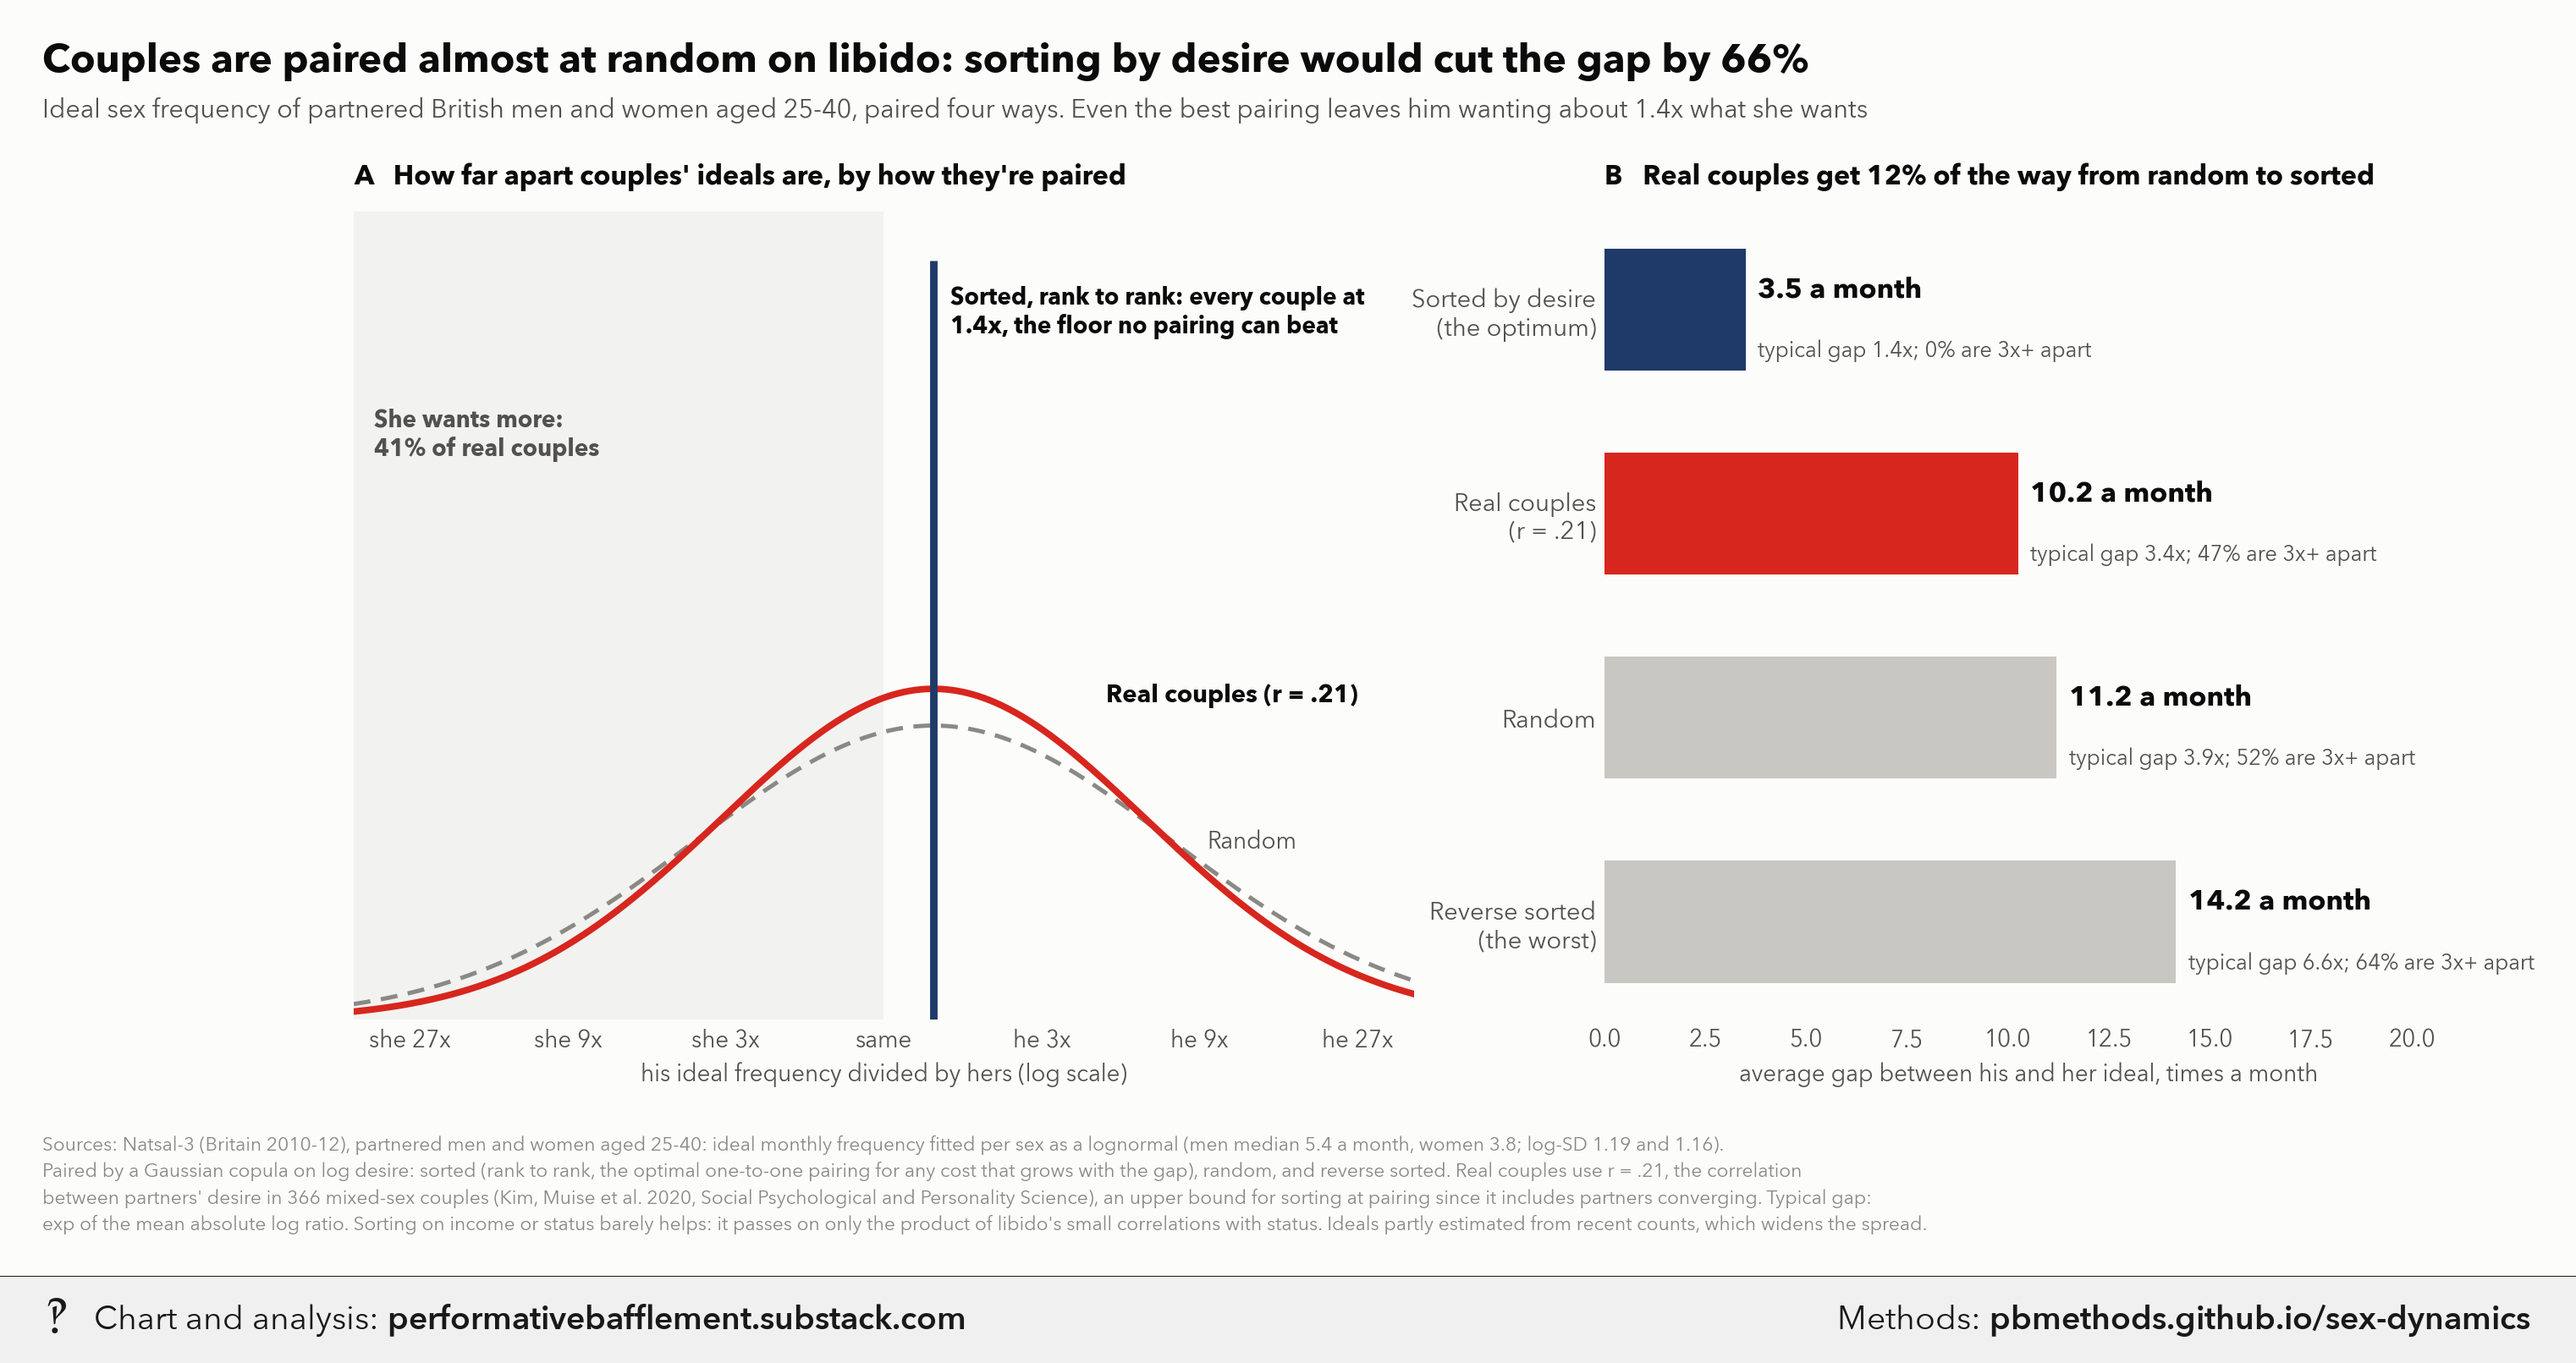
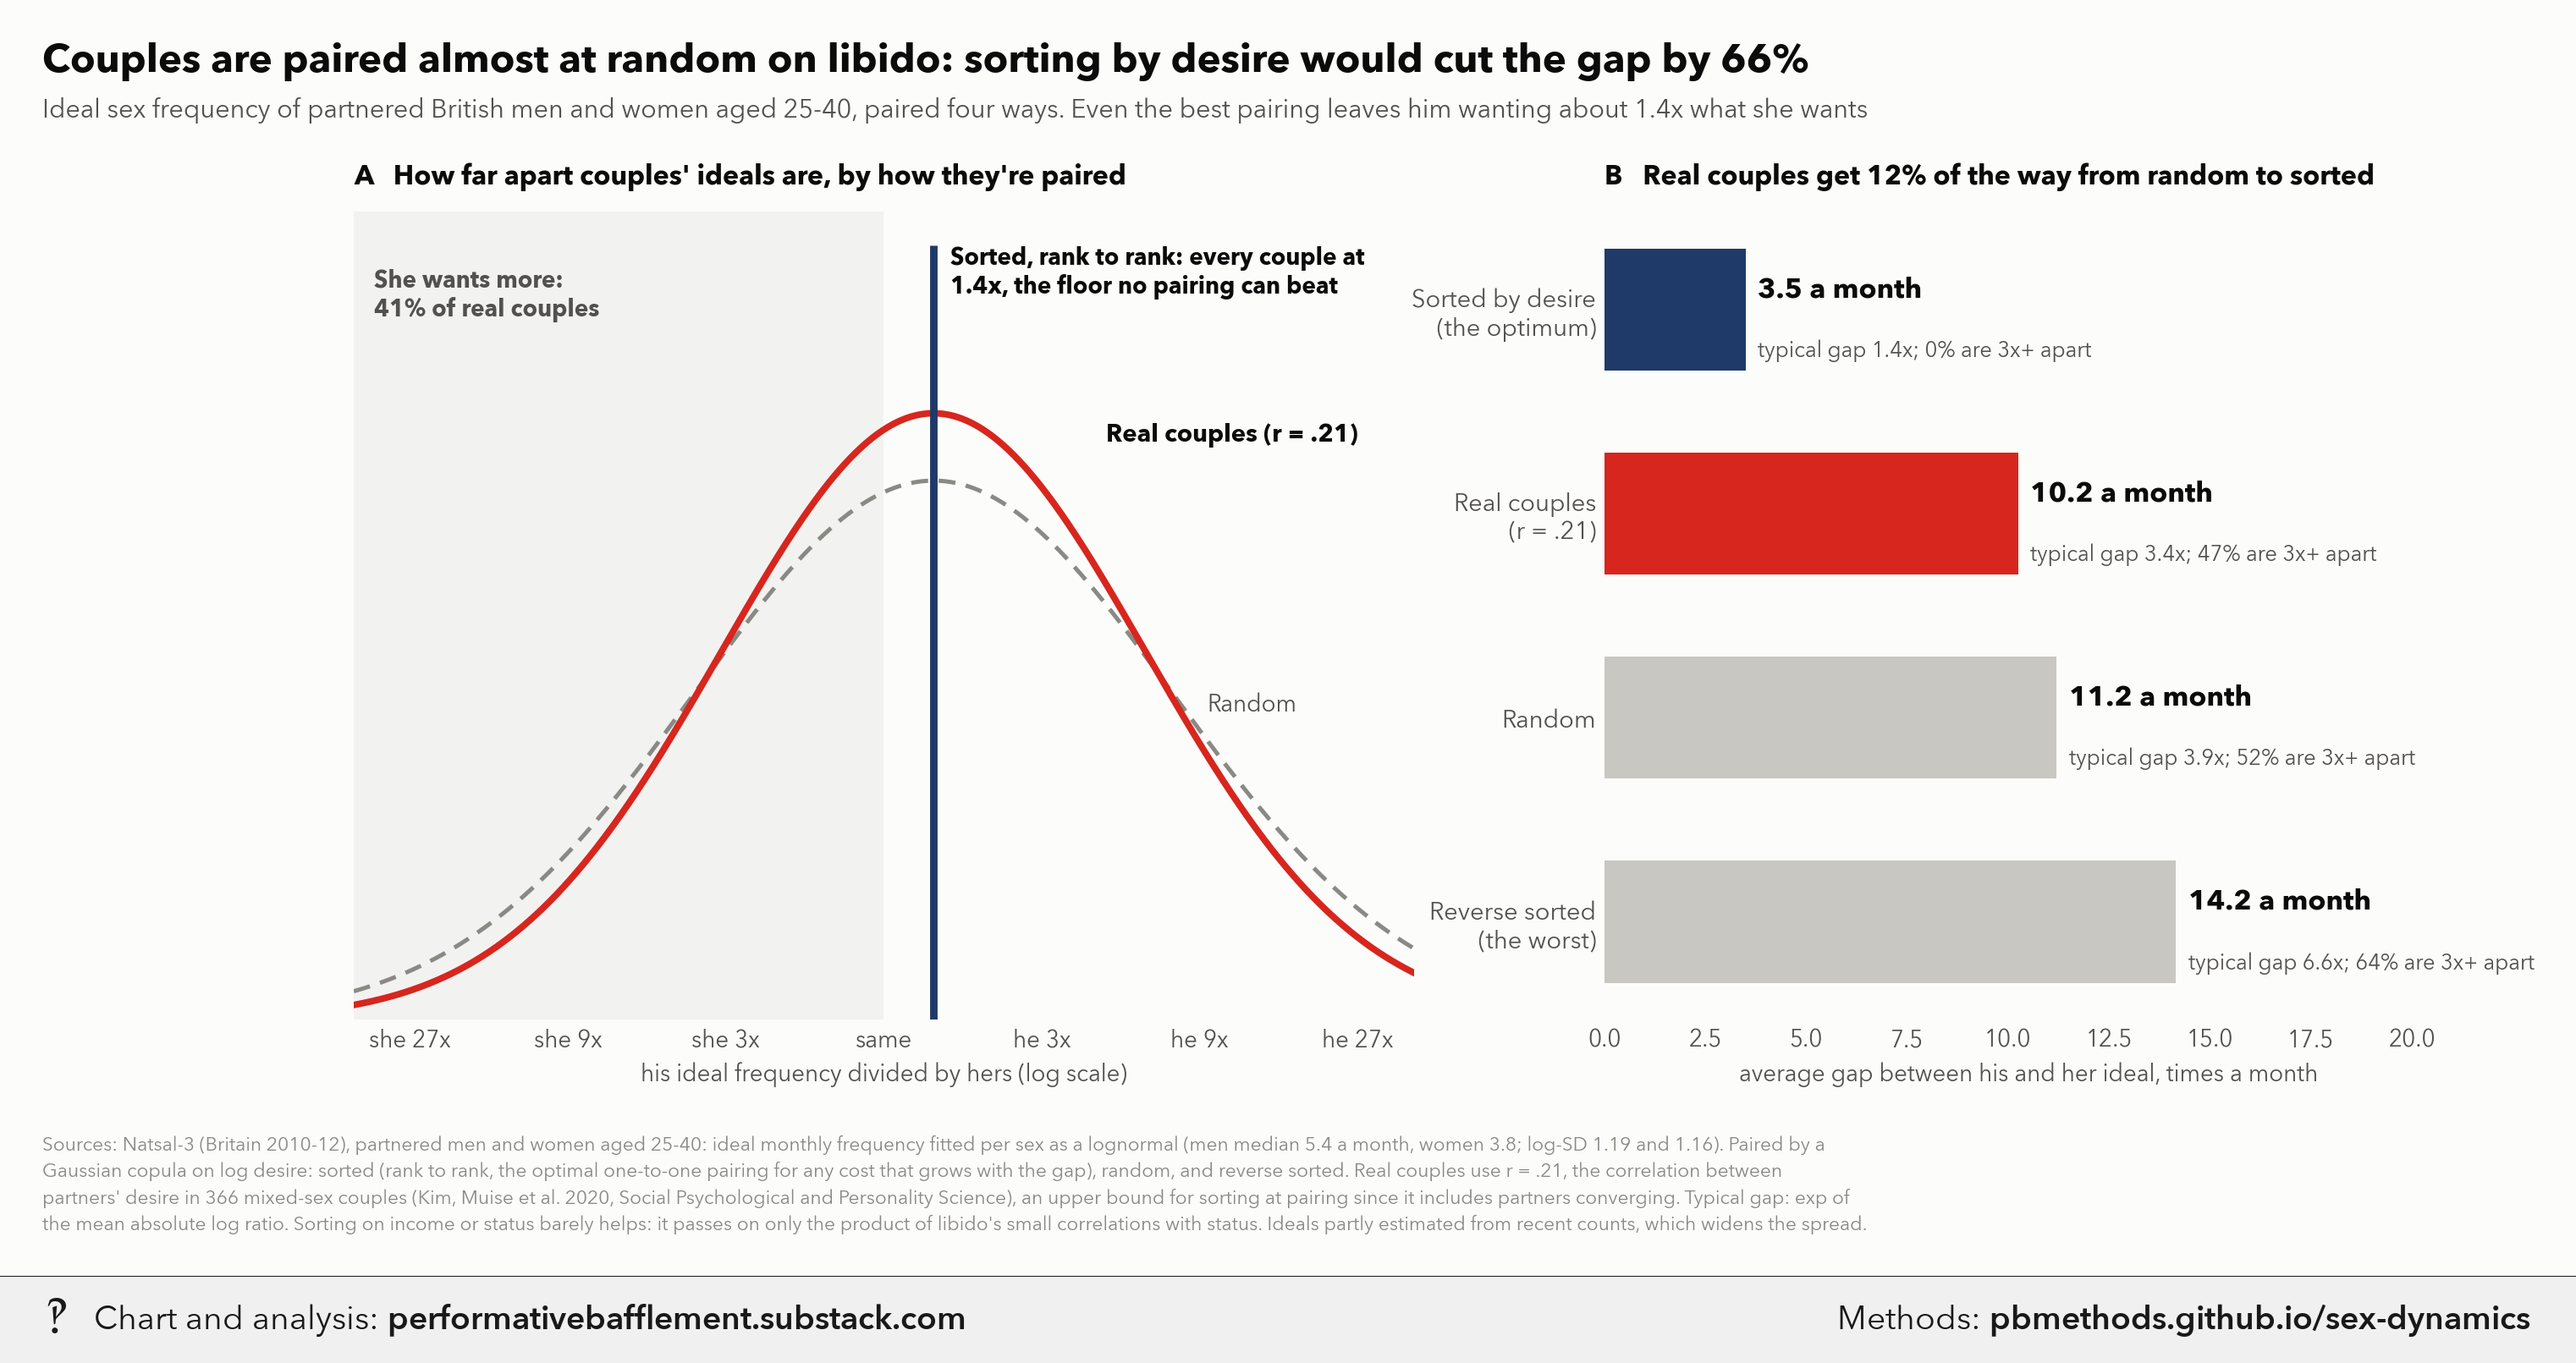
Update sex-dynamics

diff --git a/sex-dynamics/index.html b/sex-dynamics/index.html
@@ -6017,16 +6017,16 @@ ax.axvspan(np.log(1 / 40), 0, color=P[&quot;MUTE&quot;], alpha=0.18, lw=0)
 for key, c, ls, lw_ in [(RA, GRAY, (0, (4, 2.5)), 1.8), (RE, RED, &quot;-&quot;, 2.8)]:
     sd = pr.loc[key].sd_log_ratio
     ax.plot(lx, norm_pdf((lx - dm) / sd) / sd, color=c, ls=ls, lw=lw_)
-ax.plot([dm, dm], [0, 0.62], color=NAVY, lw=3.2, solid_capstyle=&quot;butt&quot;)
-ax.text(dm + 0.12, 0.6, f&quot;Sorted, rank to rank: every couple at\n{pr.loc[SO].median_ratio:.1f}x, the floor no pairing can beat&quot;,
+ax.plot([dm, dm], [0, 0.345], color=NAVY, lw=3.2, solid_capstyle=&quot;butt&quot;)
+ax.text(dm + 0.12, 0.345, f&quot;Sorted, rank to rank: every couple at\n{pr.loc[SO].median_ratio:.1f}x, the floor no pairing can beat&quot;,
         fontsize=10, fontweight=&quot;bold&quot;, color=INK, va=&quot;top&quot;)
 ax.text(1.55, 0.255, f&quot;Real couples (r = .21)&quot;, fontsize=10.5, fontweight=&quot;bold&quot;, color=INK, va=&quot;bottom&quot;)
 ax.text(2.25, 0.135, &quot;Random&quot;, fontsize=10, color=INK2, va=&quot;bottom&quot;)
-ax.text(-3.55, 0.5, f&quot;She wants more:\n{pr.loc[RE].share_she_more:.0%} of real couples&quot;, fontsize=10, color=INK2,
+ax.text(-3.55, 0.335, f&quot;She wants more:\n{pr.loc[RE].share_she_more:.0%} of real couples&quot;, fontsize=10, color=INK2,
         fontweight=&quot;bold&quot;, va=&quot;top&quot;)
 TX = [1 / 27, 1 / 9, 1 / 3, 1, 3, 9, 27]
 ax.set_xticks(np.log(TX), [&quot;she 27x&quot;, &quot;she 9x&quot;, &quot;she 3x&quot;, &quot;same&quot;, &quot;he 3x&quot;, &quot;he 9x&quot;, &quot;he 27x&quot;])
-ax.set_xlim(np.log(1 / 40), np.log(40)); ax.set_ylim(0, 0.66); ax.set_yticks([])
+ax.set_xlim(np.log(1 / 40), np.log(40)); ax.set_ylim(0, 0.36); ax.set_yticks([])
 ax.set_xlabel(&quot;his ideal frequency divided by hers (log scale)&quot;)
 ax.grid(axis=&quot;y&quot;, visible=False)
 panel_title(ax, &quot;A&quot;, &quot;How far apart couples' ideals are, by how they're paired&quot;)
@@ -6053,12 +6053,12 @@ header(fig, f&quot;Couples are paired almost at random on libido: sorting by des
        f&quot;leaves him wanting about {pr.loc[SO].median_ratio:.1f}x what she wants&quot;, y=0.93)
 footnote(fig, &quot;Sources: Natsal-3 (Britain 2010-12), partnered men and women aged 25-40: ideal monthly frequency fitted &quot;
               f&quot;per sex as a lognormal (men median {np.exp(pr.loc[RE].mu_m):.1f} a month, women &quot;
-              f&quot;{np.exp(pr.loc[RE].mu_w):.1f}; log-SD {pr.loc[RE].sg_m:.2f} and {pr.loc[RE].sg_w:.2f}).\n&quot;
-              &quot;Paired by a Gaussian copula on log desire: sorted (rank to rank, the optimal one-to-one pairing for any &quot;
-              &quot;cost that grows with the gap), random, and reverse sorted. Real couples use r = .21, the correlation\n&quot;
-              &quot;between partners' desire in 366 mixed-sex couples (Kim, Muise et al. 2020, Social Psychological and &quot;
+              f&quot;{np.exp(pr.loc[RE].mu_w):.1f}; log-SD {pr.loc[RE].sg_m:.2f} and {pr.loc[RE].sg_w:.2f}). Paired by a\n&quot;
+              &quot;Gaussian copula on log desire: sorted (rank to rank, the optimal one-to-one pairing for any &quot;
+              &quot;cost that grows with the gap), random, and reverse sorted. Real couples use r = .21, the correlation between\n&quot;
+              &quot;partners' desire in 366 mixed-sex couples (Kim, Muise et al. 2020, Social Psychological and &quot;
               &quot;Personality Science), an upper bound for sorting at pairing since it includes partners converging. &quot;
-              &quot;Typical gap:\nexp of the mean absolute log ratio. Sorting on income or status barely helps: it passes &quot;
+              &quot;Typical gap: exp of\nthe mean absolute log ratio. Sorting on income or status barely helps: it passes &quot;
               &quot;on only the product of libido's small correlations with status. Ideals partly estimated from recent &quot;
               &quot;counts, which widens the spread.&quot;, y=0.0)
 save(fig, &quot;desire_pairing&quot;)

diff --git a/sex-dynamics/methods.md b/sex-dynamics/methods.md
@@ -2298,16 +2298,16 @@ ax.axvspan(np.log(1 / 40), 0, color=P["MUTE"], alpha=0.18, lw=0)
 for key, c, ls, lw_ in [(RA, GRAY, (0, (4, 2.5)), 1.8), (RE, RED, "-", 2.8)]:
     sd = pr.loc[key].sd_log_ratio
     ax.plot(lx, norm_pdf((lx - dm) / sd) / sd, color=c, ls=ls, lw=lw_)
-ax.plot([dm, dm], [0, 0.62], color=NAVY, lw=3.2, solid_capstyle="butt")
-ax.text(dm + 0.12, 0.6, f"Sorted, rank to rank: every couple at\n{pr.loc[SO].median_ratio:.1f}x, the floor no pairing can beat",
+ax.plot([dm, dm], [0, 0.345], color=NAVY, lw=3.2, solid_capstyle="butt")
+ax.text(dm + 0.12, 0.345, f"Sorted, rank to rank: every couple at\n{pr.loc[SO].median_ratio:.1f}x, the floor no pairing can beat",
         fontsize=10, fontweight="bold", color=INK, va="top")
 ax.text(1.55, 0.255, f"Real couples (r = .21)", fontsize=10.5, fontweight="bold", color=INK, va="bottom")
 ax.text(2.25, 0.135, "Random", fontsize=10, color=INK2, va="bottom")
-ax.text(-3.55, 0.5, f"She wants more:\n{pr.loc[RE].share_she_more:.0%} of real couples", fontsize=10, color=INK2,
+ax.text(-3.55, 0.335, f"She wants more:\n{pr.loc[RE].share_she_more:.0%} of real couples", fontsize=10, color=INK2,
         fontweight="bold", va="top")
 TX = [1 / 27, 1 / 9, 1 / 3, 1, 3, 9, 27]
 ax.set_xticks(np.log(TX), ["she 27x", "she 9x", "she 3x", "same", "he 3x", "he 9x", "he 27x"])
-ax.set_xlim(np.log(1 / 40), np.log(40)); ax.set_ylim(0, 0.66); ax.set_yticks([])
+ax.set_xlim(np.log(1 / 40), np.log(40)); ax.set_ylim(0, 0.36); ax.set_yticks([])
 ax.set_xlabel("his ideal frequency divided by hers (log scale)")
 ax.grid(axis="y", visible=False)
 panel_title(ax, "A", "How far apart couples' ideals are, by how they're paired")
@@ -2334,12 +2334,12 @@ header(fig, f"Couples are paired almost at random on libido: sorting by desire w
        f"leaves him wanting about {pr.loc[SO].median_ratio:.1f}x what she wants", y=0.93)
 footnote(fig, "Sources: Natsal-3 (Britain 2010-12), partnered men and women aged 25-40: ideal monthly frequency fitted "
               f"per sex as a lognormal (men median {np.exp(pr.loc[RE].mu_m):.1f} a month, women "
-              f"{np.exp(pr.loc[RE].mu_w):.1f}; log-SD {pr.loc[RE].sg_m:.2f} and {pr.loc[RE].sg_w:.2f}).\n"
-              "Paired by a Gaussian copula on log desire: sorted (rank to rank, the optimal one-to-one pairing for any "
-              "cost that grows with the gap), random, and reverse sorted. Real couples use r = .21, the correlation\n"
-              "between partners' desire in 366 mixed-sex couples (Kim, Muise et al. 2020, Social Psychological and "
+              f"{np.exp(pr.loc[RE].mu_w):.1f}; log-SD {pr.loc[RE].sg_m:.2f} and {pr.loc[RE].sg_w:.2f}). Paired by a\n"
+              "Gaussian copula on log desire: sorted (rank to rank, the optimal one-to-one pairing for any "
+              "cost that grows with the gap), random, and reverse sorted. Real couples use r = .21, the correlation between\n"
+              "partners' desire in 366 mixed-sex couples (Kim, Muise et al. 2020, Social Psychological and "
               "Personality Science), an upper bound for sorting at pairing since it includes partners converging. "
-              "Typical gap:\nexp of the mean absolute log ratio. Sorting on income or status barely helps: it passes "
+              "Typical gap: exp of\nthe mean absolute log ratio. Sorting on income or status barely helps: it passes "
               "on only the product of libido's small correlations with status. Ideals partly estimated from recent "
               "counts, which widens the spread.", y=0.0)
 save(fig, "desire_pairing")
